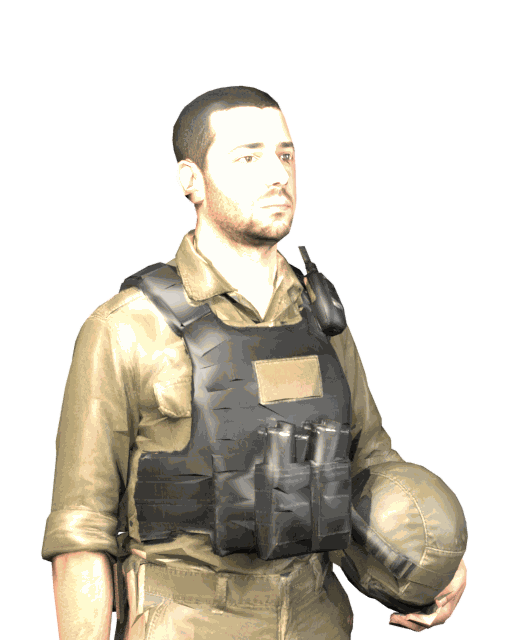
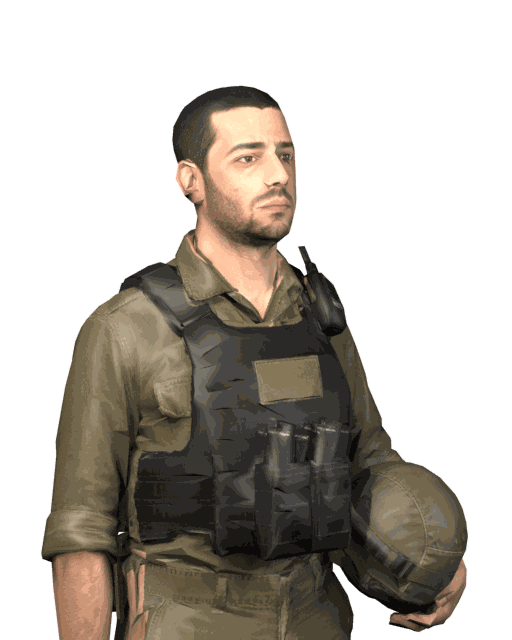
fix(ui): Shai's portrait was double-lit -- key 80 W, fill 20 W, exposure -0.3 EV
The lead: "there is too much light." The bake is already a lit photograph,
so the first pass's 220 W key and 55 W fill lit it twice and the uniform read
blown out. The figure's mean luminance drops from 148 to 89 of 255 with the
same framing. Light power and exposure are command-line numbers on
tools/render_portrait.py now, with the shipped values as defaults so the
documented command reproduces the shipped image. 46.5 KiB quantised.

diff --git a/tools/render_portrait.py b/tools/render_portrait.py
@@ -88,10 +88,10 @@ CROP_BOTTOM_FRAC = 0.55     # bottom of the chest-up crop, fraction of height.
 HEAD_MARGIN_FRAC = 0.05     # headroom above the crown, fraction of height.
 HORIZ_MARGIN     = 1.08     # safety margin on the measured shoulder/prop width.
 
-KEY_ENERGY  = 220.0   # W, Blender area-light power.
+KEY_ENERGY  = 80.0    # W, Blender area-light power. 220 double-lit the bake (the lead: "too much light").
 KEY_SIZE    = 1.4     # m, square area light.
 KEY_COLOR   = (1.0, 0.95, 0.88)   # warm-neutral.
-FILL_ENERGY = 55.0     # W -- roughly a quarter of the key, "weak fill".
+FILL_ENERGY = 20.0     # W -- a quarter of the key, "weak fill".
 FILL_SIZE   = 1.2
 FILL_COLOR  = (0.92, 0.95, 1.0)   # slightly cool, unobtrusive.
 
@@ -108,6 +108,9 @@ def parse_args():
     p.add_argument("--yaw", type=float, default=35.0, help="azimuth off dead-front, degrees, toward camera-left")
     p.add_argument("--size", default="512x640", help="WxH pixels")
     p.add_argument("--samples", type=int, default=SAMPLES)
+    p.add_argument("--key", type=float, default=KEY_ENERGY, help="key area light, watts")
+    p.add_argument("--fill", type=float, default=FILL_ENERGY, help="fill area light, watts")
+    p.add_argument("--exposure", type=float, default=-0.3, help="scene exposure, EV (negative = darker)")
     return p.parse_args(argv)
 
 
@@ -181,7 +184,7 @@ def build_world():
     bpy.context.scene.world = world
 
 
-def build_scene(size_x, size_y, samples):
+def build_scene(size_x, size_y, samples, exposure=0.0):
     scene = bpy.context.scene
     scene.render.engine = "BLENDER_EEVEE"
     scene.render.resolution_x = size_x
@@ -195,6 +198,7 @@ def build_scene(size_x, size_y, samples):
     # second, unwanted display transform on top of it and flatten it.
     scene.view_settings.view_transform = "Standard"
     scene.view_settings.look = "None"
+    scene.view_settings.exposure = float(exposure)
     build_world()
 
 
@@ -211,7 +215,7 @@ def add_area_light(name, energy, size, color, location, target):
     return obj
 
 
-def build_camera(height, yaw_deg):
+def build_camera(height, yaw_deg, key_w=KEY_ENERGY, fill_w=FILL_ENERGY):
     """Returns (camera, geometry-report-dict)."""
     eye_z = EYE_FRAC * height
     crop_bottom_z = CROP_BOTTOM_FRAC * height
@@ -283,12 +287,12 @@ def build_camera(height, yaw_deg):
     key_yaw = yaw + math.radians(25.0)   # a bit wider than the camera itself.
     key_dir = Vector((-math.sin(key_yaw), -math.cos(key_yaw)))
     key_pos = aim_pos + Vector((key_dir.x * 1.4, key_dir.y * 1.4, 1.0))
-    add_area_light("key", KEY_ENERGY, KEY_SIZE, KEY_COLOR, key_pos, aim_pos)
+    add_area_light("key", key_w, KEY_SIZE, KEY_COLOR, key_pos, aim_pos)
 
     fill_yaw = -math.radians(30.0)
     fill_dir = Vector((-math.sin(fill_yaw), -math.cos(fill_yaw)))
     fill_pos = aim_pos + Vector((fill_dir.x * 1.6, fill_dir.y * 1.6, 0.3))
-    add_area_light("fill", FILL_ENERGY, FILL_SIZE, FILL_COLOR, fill_pos, aim_pos)
+    add_area_light("fill", fill_w, FILL_SIZE, FILL_COLOR, fill_pos, aim_pos)
 
     return cam, report
 
@@ -297,12 +301,12 @@ def main():
     args = parse_args()
     size_x, size_y = (int(v) for v in args.size.lower().split("x"))
 
-    build_scene(size_x, size_y, args.samples)
+    build_scene(size_x, size_y, args.samples, args.exposure)
 
     root = find_root()
     factor, measured_height = scale_and_ground(root, args.height)
 
-    cam, report = build_camera(args.height, args.yaw)
+    cam, report = build_camera(args.height, args.yaw, args.key, args.fill)
 
     os.makedirs(os.path.dirname(os.path.abspath(args.out)), exist_ok=True)
     bpy.context.scene.render.filepath = os.path.abspath(args.out)
@@ -326,6 +330,7 @@ def main():
     print(f"  aim point             : {report['aim_pos']}")
     print(f"  yaw                   : {args.yaw} deg off dead-front, toward camera-left")
     print(f"  samples               : {args.samples}")
+    print(f"  key / fill / exposure : {args.key} W / {args.fill} W / {args.exposure} EV")
 
 
 if __name__ == "__main__":

diff --git a/docs/art/meshy-prompts-characters.md b/docs/art/meshy-prompts-characters.md
@@ -235,7 +235,7 @@ The portrait is rendered from the delivered figure, once per character, by
 | item | value |
 |---|---|
 | camera | 50 mm, eye height, three-quarter from camera-left, framing chest-up with the head in the upper third |
-| light | one large soft key from camera-left, one weak fill; no rim, no coloured light |
+| light | one large soft key from camera-left at 80 W, a 20 W fill, exposure −0.3 EV; no rim, no coloured light. The first pass at 220 / 55 / 0 double-lit the bake and read blown out; the bake is already a lit photograph, so the lights only add form |
 | backdrop | plain, dark, uniform — `--panel` composites over it |
 | output | 512 × 640 PNG, sRGB, ≤ 150 KiB, `assets/ui/portraits/<id>.png` |
 | pose | the **Idle** clip's first frame; for Adhal the binoculars half-lowered |
